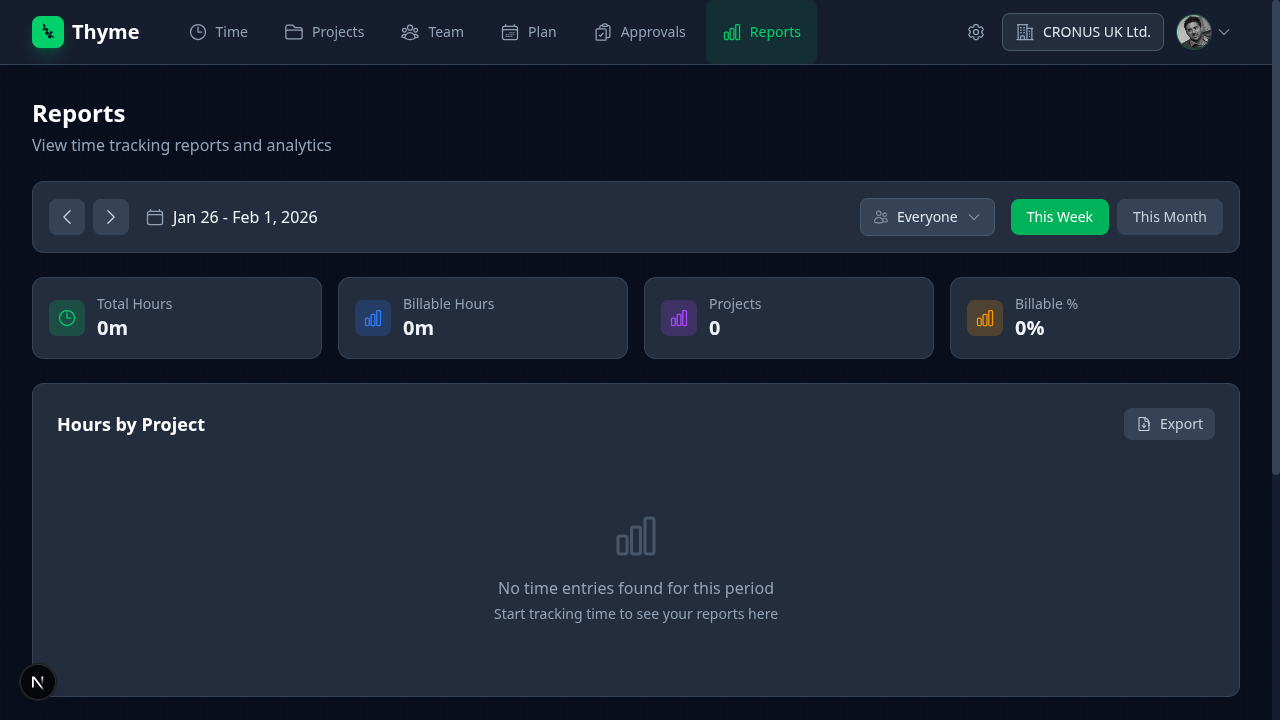
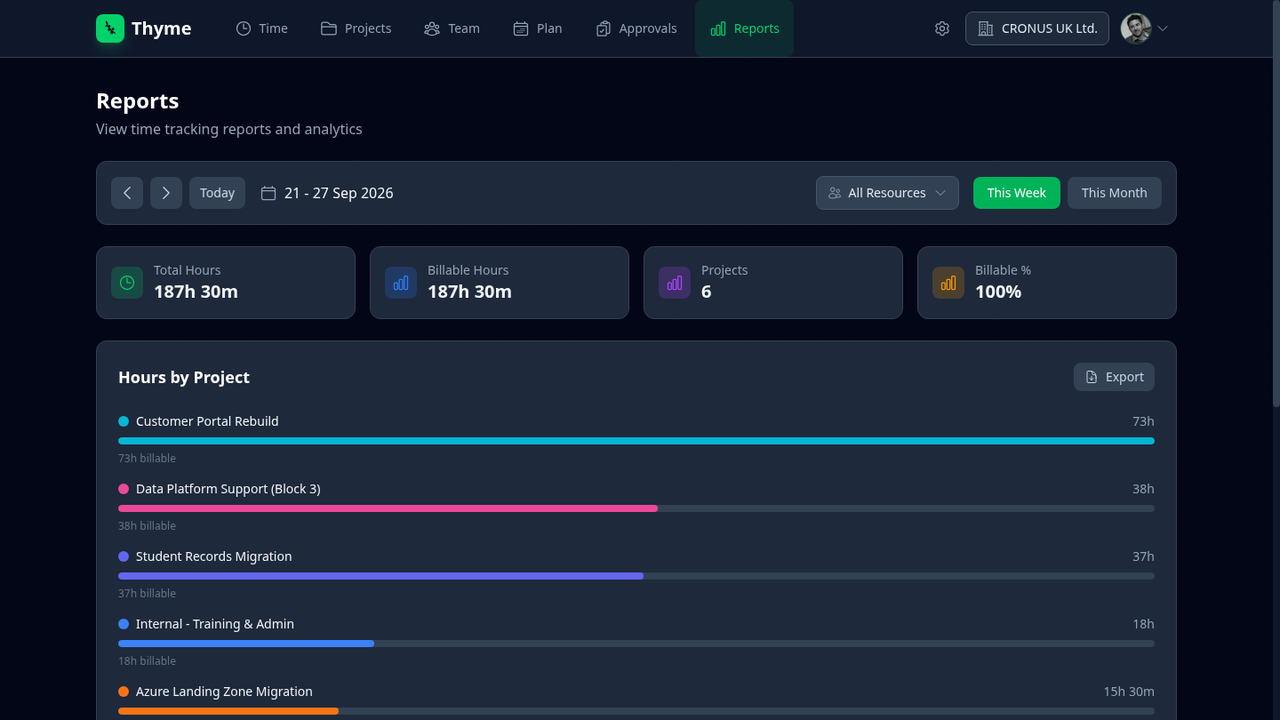
docs: refresh the homepage screenshots with realistic demo data
Replace the six carousel screenshots with 1280x720 captures of the
current app against a populated CRONUS UK Ltd. sandbox company, and
update the Projects and Team slide copy to match what they now show.

Fixes #283

diff --git a/src/components/landing/ScreenshotCarousel.tsx b/src/components/landing/ScreenshotCarousel.tsx
@@ -20,15 +20,15 @@ const screenshots: Screenshot[] = [
   },
   {
     src: '/screenshots/projects.png',
-    alt: 'Projects list from Business Central',
+    alt: 'Projects list from Business Central with planned, spent and remaining hours',
     title: 'Projects',
-    description: 'Browse all your Business Central projects with search and favorites.',
+    description: 'Browse your Business Central projects with planned, spent and remaining hours.',
   },
   {
     src: '/screenshots/team.png',
-    alt: 'Team overview with timesheet status',
+    alt: 'Team overview with hours by timesheet stage and utilization',
     title: 'Team',
-    description: 'View your team members and their timesheet submission status at a glance.',
+    description: "See your team's hours, utilization and timesheet progress at a glance.",
   },
   {
     src: '/screenshots/plan.png',
